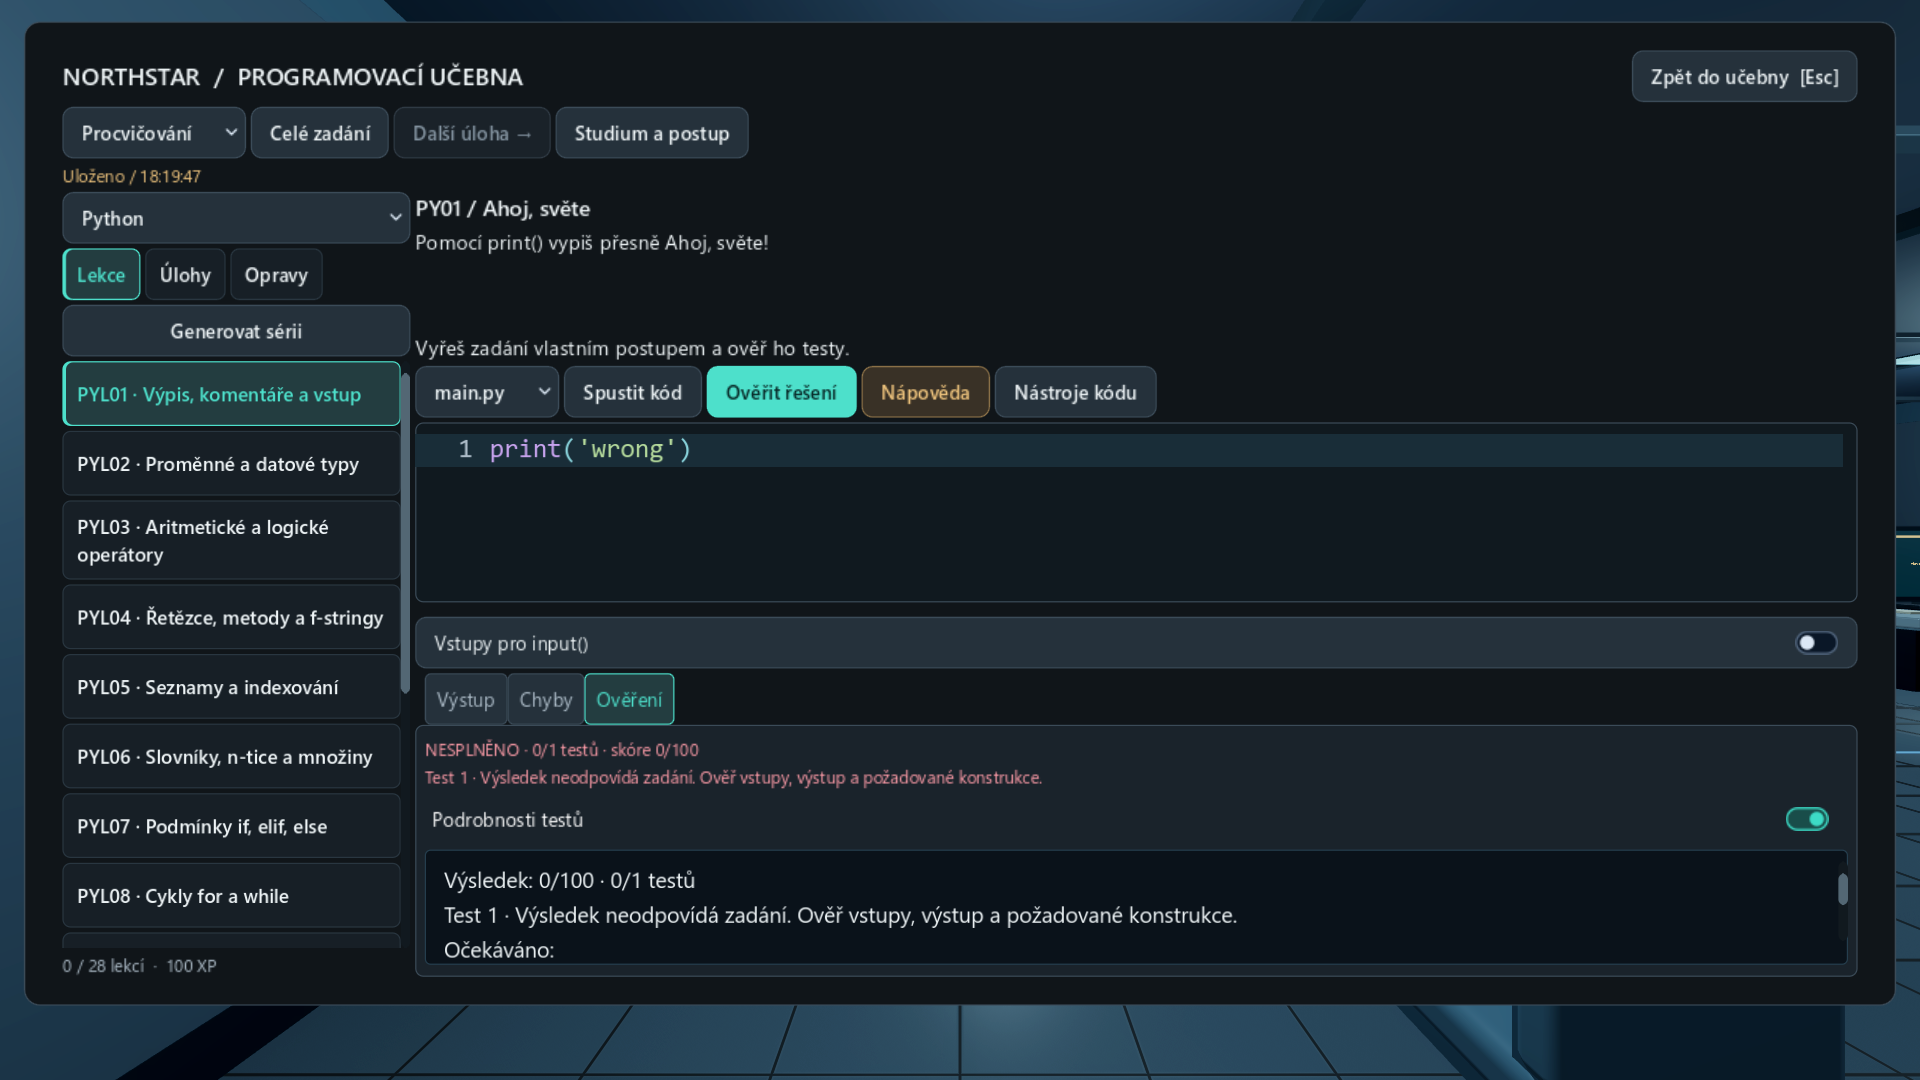
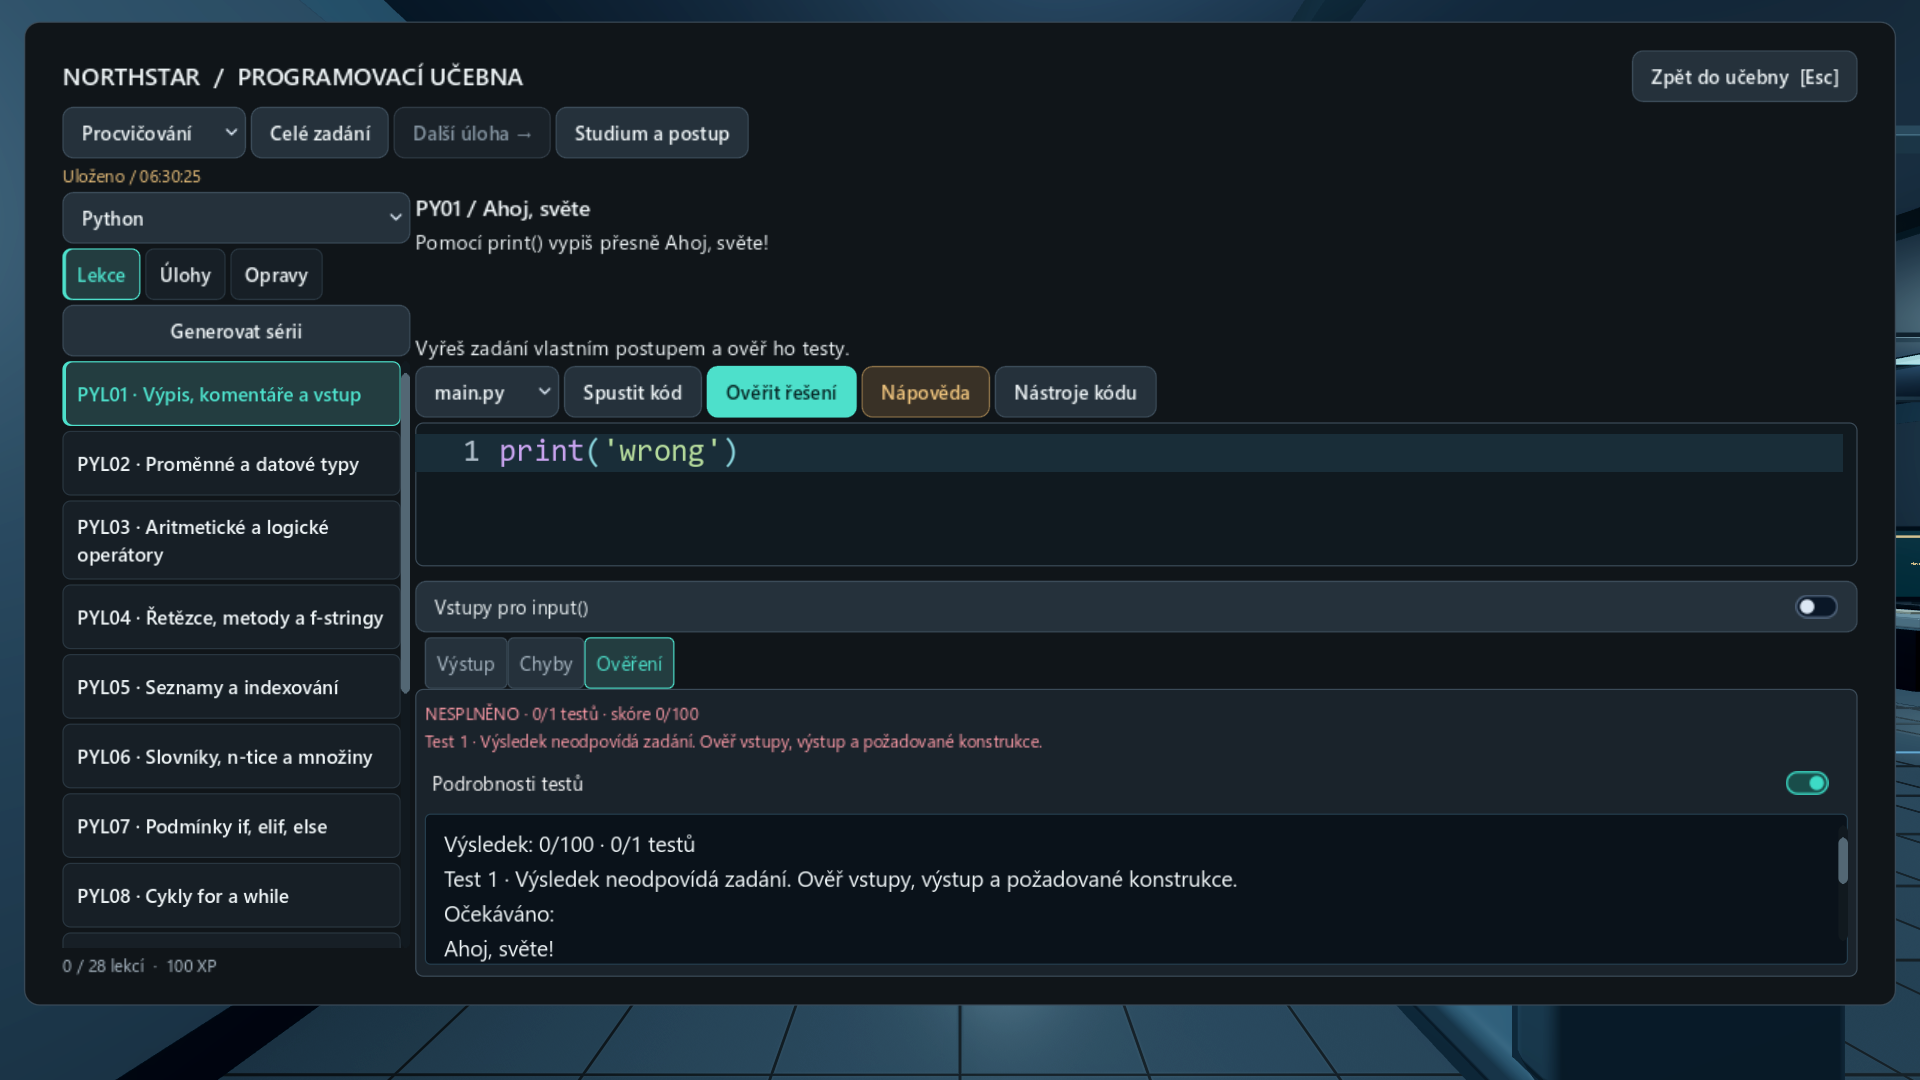
Verify resizable editor on PC and both XR rays

diff --git a/docs/ui-review/2026-11-04-interface/README.md b/docs/ui-review/2026-11-04-interface/README.md
@@ -13,7 +13,7 @@ nikoli prohlášení o dokončení všech bodů. EXE/APK zatím nejsou znovu ses
 - [x] 8: skutečné kapsy a souvislé rámy obou posuvných dveří, sjednocené portály.
 - [x] 9: tmavé křídlo IT dveří se již neodsouvá do Londýna.
 - [x] 9a: béžové lamely, commit `a3f36e5`, samostatná reprodukce před/po.
-- [ ] 10: nastavitelný spodní panel programování a výsledky ověření.
+- [x] 10: nastavitelný spodní panel programování a výsledky ověření.
 - [x] 11: hotové technické panely místo lišt na zazděné jižní stěně serverovny.
 - [ ] 12: zkrácení prezentace textů se zachováním všech potřebných údajů.
 - [ ] 13: společný vzhled a všechny ovládací cesty — závěrečné ověření.
@@ -76,3 +76,23 @@ na již odstraněné tlačítko byla opravena; finální logy jsou čisté.
 [Kam jít](destinations-1280-130-gl_compatibility.png),
 [VR pauza](pause-vr-130-gl_compatibility.png),
 [podpis](menu-1280-130-gl_compatibility.png).
+
+## Editor (10)
+
+Skutečný VSplitContainer s viditelným úchytem mění poměr editoru a výsledků.
+Výstup má vlastní posuv; vstupy lze sbalit bez ztráty obsahu. Méně časté nástroje
+jsou ve dvou nabídkách. Celé zadání zůstává dostupné v dialogu ve všech režimech.
+Ověření rozlišuje počet testů, skóre, hlavní důvod a volitelné podrobnosti
+s očekávaným/skutečným výstupem mimo zkoušku. Po editaci je výsledek zastaralý.
+
+`editor_repair`: **380 headless / 410 Compatibility / 410 Forward+ PASS**.
+Celá PC matice, skutečné myší tažení a oba syntetické XR triggery, dlouhý výpis,
+input(), přechod na chybový řádek, úspěch/neúspěch, zastarání, úplné zadání,
+nabídky, koncepty a pravidla zkoušky. XR drag čeká na skutečné fyzikální snímky,
+které přenášejí pohyb paprsku; dřívější test čekající jen render snímky je
+oddělený neúspěšný vývojový běh. Regrese work_persistence 69,
+programming_catalog 1071, integration 765 / 252 variant a polish 29 PASS.
+[Výstup 720p/130 %](editor-output-1280-130-gl_compatibility.png),
+[ověření](editor-verification-1280-130-gl_compatibility.png),
+[celé zadání](editor-task-1280-130-gl_compatibility.png),
+[VR](editor-output-vr-130-gl_compatibility.png).

diff --git a/PROGRESS.md b/PROGRESS.md
@@ -9,6 +9,17 @@
 - Pauza a podpis (2/4): kompaktní základ bez scrollu i v 720p/130 %, Kam jít a pracovní podnabídka, přesunutá diagnostika/přenos/nápověda v Nastavení, VR komfort přímo. Esc a skutečné selhání uložení zachované. Přesný podpis `Vytvořil Vít Kellner`. Nové pause_repair **217 headless / 239 Compatibility / 239 Forward+ PASS**, všech šest PC kombinací a oba syntetické XR paprsky. Regrese workflow 615 / XR 120 / world_ui 31 / gameplay_review 77 PASS.
 - Další práce: Následují dialogy/cíle/navigace, editor, texty a úplná finální regrese. EXE/APK se dosud nepřestavují; bez push. Původní 47sadový celý baseline po opravě 9a skutečně PASS, log uložený v její verification složce.
 
+## Editor — etapa 10, 5. 11. 2026
+
+- Commit d3724db obsahuje nastavitelný VSplitContainer, sbalitelné vstupy,
+  nabídky nástrojů, celé zadání a jasný výsledek se skóre/počty/důvodem/detailním
+  porovnáním mimo zkoušku. Skutečné editace zachovávají označení zastaralého výsledku.
+- Nová editor_repair: 380 headless / 410 Compatibility / 410 Forward+ PASS,
+  PC 720p/1080p/4K × 100/130 %, VR viewport a oba triggery. Test fyzikálního
+  pohybu paprsku nyní čeká na physics_frame; žádná produkční ochrana vypnutá.
+- Koncepty 69, katalog 1071, integrace 765 / 252 variant a polish 29 PASS.
+  Snímky/logy ve společné interface složce. EXE/APK zatím původní; bez push.
+
 ## Bod 9a — béžové lamely v Londýně, 4. 11. 2026
 
 - Původ potvrzen graficky i geometrií: `WorldVisuals.corridor()`, poslední trojice dekoru zadní stěny prosklené chodby serverovny (X −0,95/−0,83/−0,71, Z 10,34). Dvě lamely vystupovaly před západní stěnu Londýna. Původní smyčka přesahovala také levý konec vlastní chodby; nešlo o zbytek londýnského průchodu.
